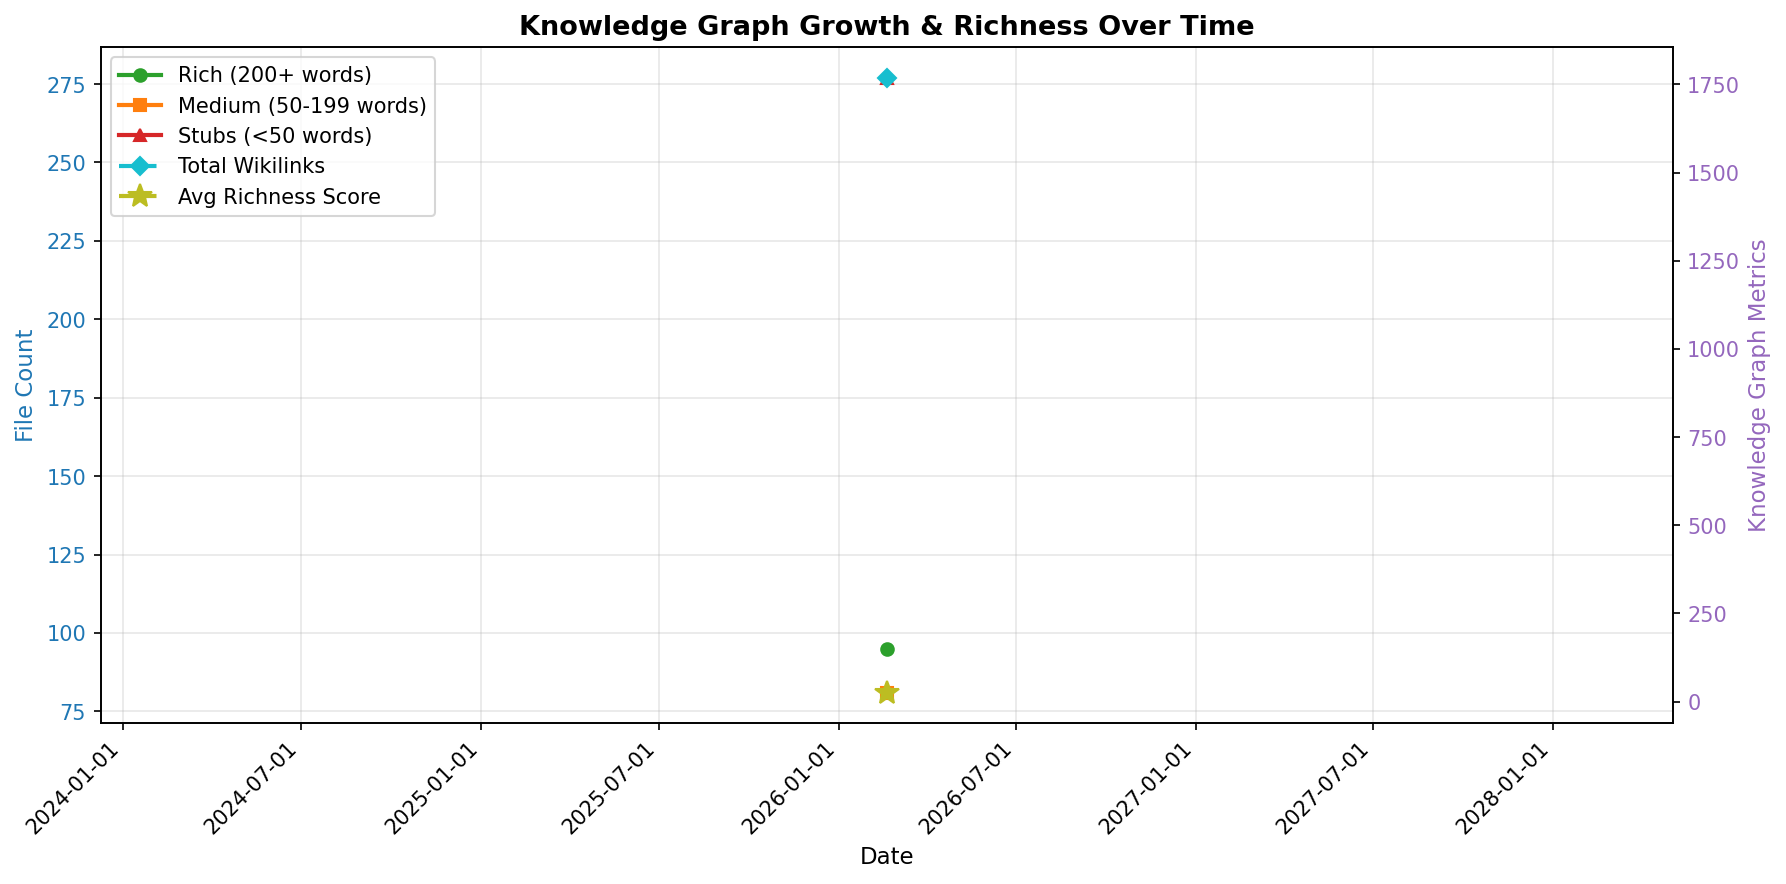
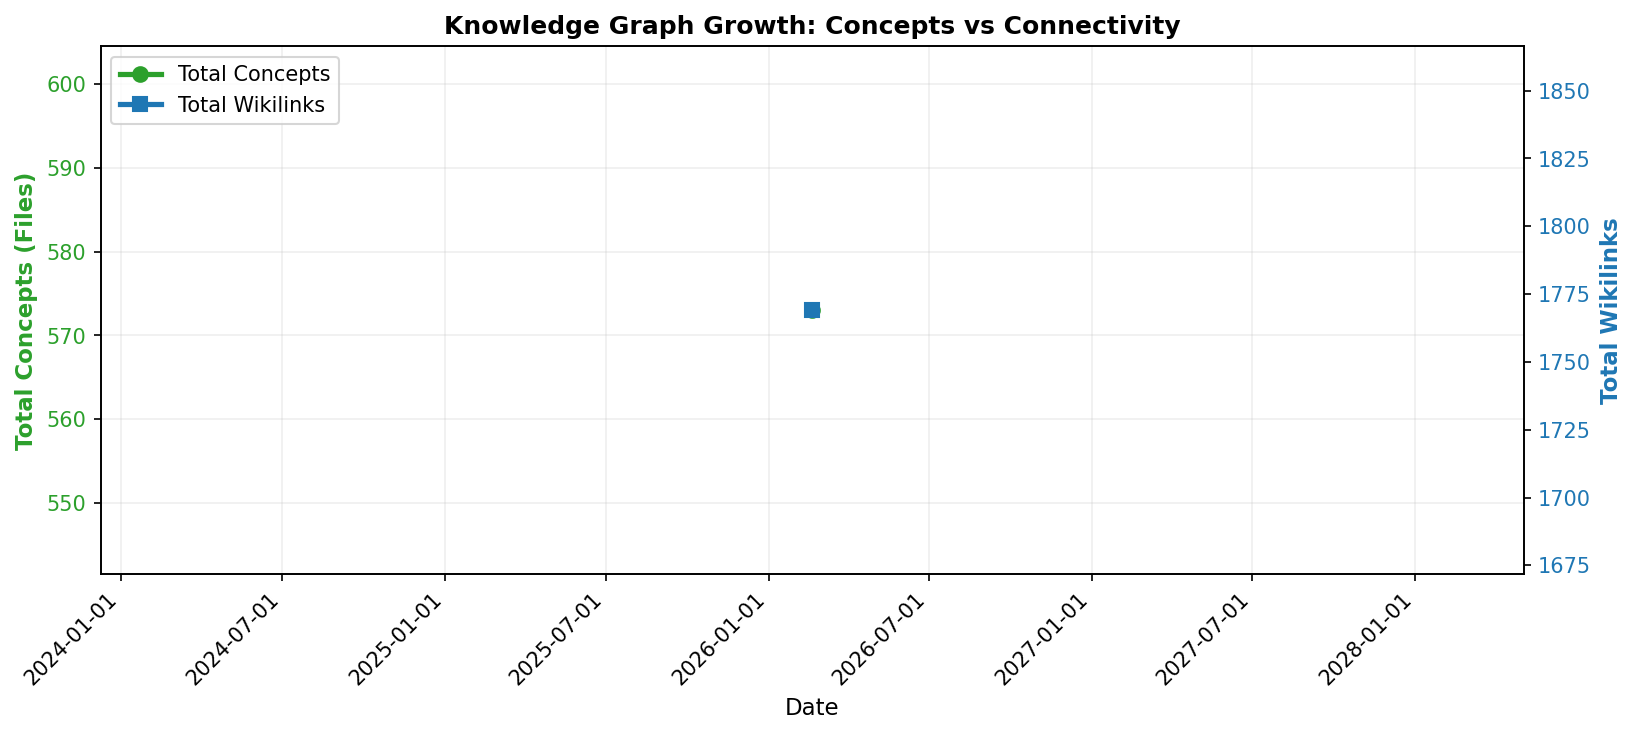
Simplify chart to dual-axis: concepts vs wikilinks
- Left axis: Total concepts (files)
- Right axis: Total wikilinks
- Cleaner, more readable visualization
- Focuses on vault growth and connectivity

diff --git a/scripts/count_richness.py b/scripts/count_richness.py
@@ -139,40 +139,34 @@ def append_stats(stats):
 
 
 def plot_stats(data):
-    """Generate dual-axis line graph from stats data."""
+    """Generate simplified dual-axis line graph: total files (left) vs wikilinks (right)."""
     if not data:
         print("No data to plot")
         return
 
     dates = [datetime.strptime(d["date"], "%Y-%m-%d") for d in data]
-    stubs = [d["stubs"] for d in data]
-    medium = [d["medium"] for d in data]
-    rich = [d["rich"] for d in data]
+    total_files = [d["total"] for d in data]
     links = [d["links"] for d in data]
-    avg_scores = [d["avg_score"] for d in data]
 
     # Create figure with dual axes
-    fig, ax1 = plt.subplots(figsize=(12, 6))
+    fig, ax1 = plt.subplots(figsize=(11, 5))
 
-    # Left axis: File counts
-    color1 = '#1f77b4'
+    # Left axis: Total files
+    color1 = '#2ca02c'
     ax1.set_xlabel('Date', fontsize=11)
-    ax1.set_ylabel('File Count', color=color1, fontsize=11)
+    ax1.set_ylabel('Total Concepts (Files)', color=color1, fontsize=11, fontweight='bold')
 
-    line1 = ax1.plot(dates, rich, color='#2ca02c', marker='o', linewidth=2, label='Rich (200+ words)')
-    line2 = ax1.plot(dates, medium, color='#ff7f0e', marker='s', linewidth=2, label='Medium (50-199 words)')
-    line3 = ax1.plot(dates, stubs, color='#d62728', marker='^', linewidth=2, label='Stubs (<50 words)')
+    line1 = ax1.plot(dates, total_files, color=color1, marker='o', linewidth=2.5, markersize=7, label='Total Concepts')
 
     ax1.tick_params(axis='y', labelcolor=color1)
-    ax1.grid(True, alpha=0.3)
+    ax1.grid(True, alpha=0.2)
 
-    # Right axis: Metrics (wikilinks + avg score)
+    # Right axis: Wikilinks
     ax2 = ax1.twinx()
-    color2 = '#9467bd'
-    ax2.set_ylabel('Knowledge Graph Metrics', color=color2, fontsize=11)
+    color2 = '#1f77b4'
+    ax2.set_ylabel('Total Wikilinks', color=color2, fontsize=11, fontweight='bold')
 
-    line4 = ax2.plot(dates, links, color='#17becf', marker='D', linewidth=2, linestyle='--', label='Total Wikilinks')
-    line5 = ax2.plot(dates, avg_scores, color='#bcbd22', marker='*', linewidth=2, linestyle='--', markersize=12, label='Avg Richness Score')
+    line2 = ax2.plot(dates, links, color=color2, marker='s', linewidth=2.5, markersize=7, label='Total Wikilinks')
 
     ax2.tick_params(axis='y', labelcolor=color2)
 
@@ -181,12 +175,12 @@ def plot_stats(data):
     fig.autofmt_xdate(rotation=45, ha='right')
 
     # Combined legend
-    lines = line1 + line2 + line3 + line4 + line5
+    lines = line1 + line2
     labels = [l.get_label() for l in lines]
     ax1.legend(lines, labels, loc='upper left', fontsize=10)
 
     # Title
-    plt.title('Knowledge Graph Growth & Richness Over Time', fontsize=13, fontweight='bold')
+    plt.title('Knowledge Graph Growth: Concepts vs Connectivity', fontsize=12, fontweight='bold')
     fig.tight_layout()
 
     # Save

diff --git a/README.md b/README.md
@@ -6,7 +6,7 @@
 
 ![Knowledge Glossary Growth](stats/chart.png)
 
-A personal knowledge graph containing **569 interconnected concepts** in data science, machine learning, and AI. Built as an [Obsidian](https://obsidian.md/) vault with typed relationships, this graph can serve as the foundation for a **data ontology**.
+A personal knowledge graph containing **573 interconnected concepts** in data science, machine learning, and AI. Built as an [Obsidian](https://obsidian.md/) vault with typed relationships, this graph can serve as the foundation for a **data ontology**.
 ## Structure
 
 Each concept is a markdown file with:
